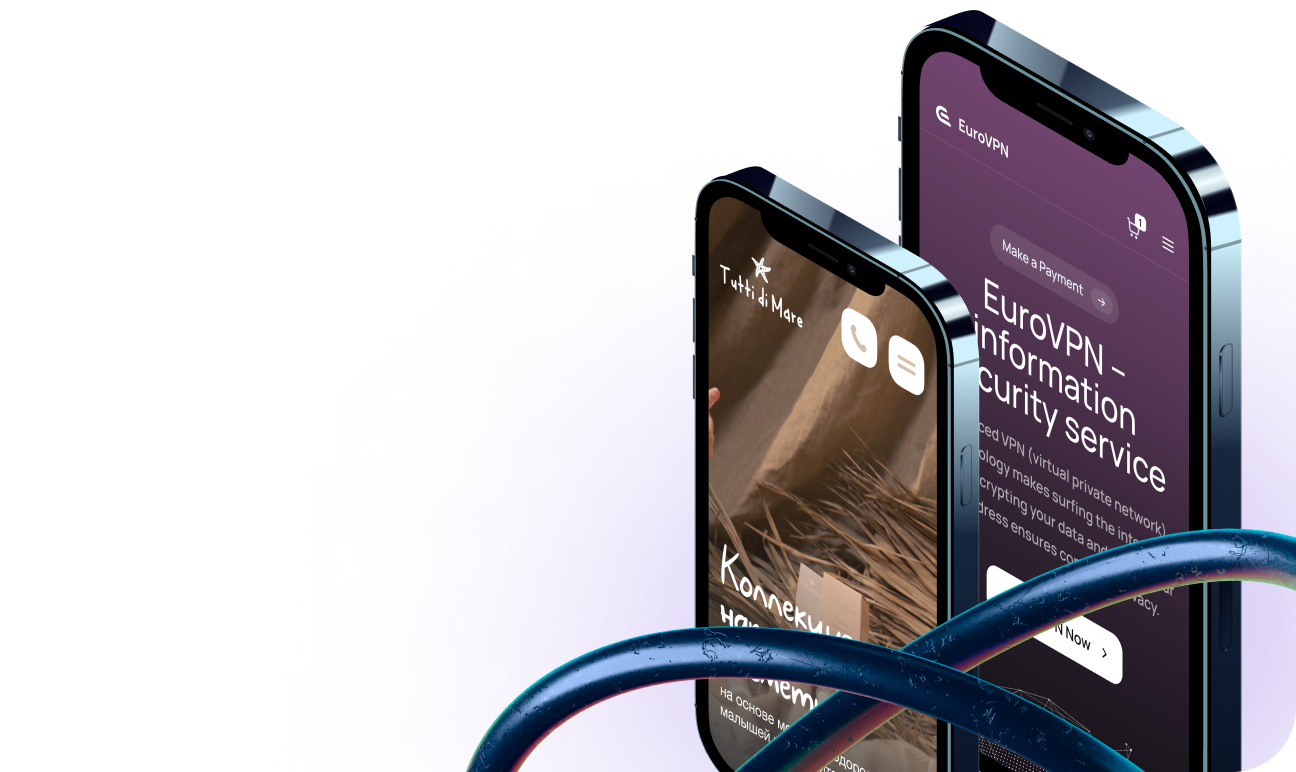
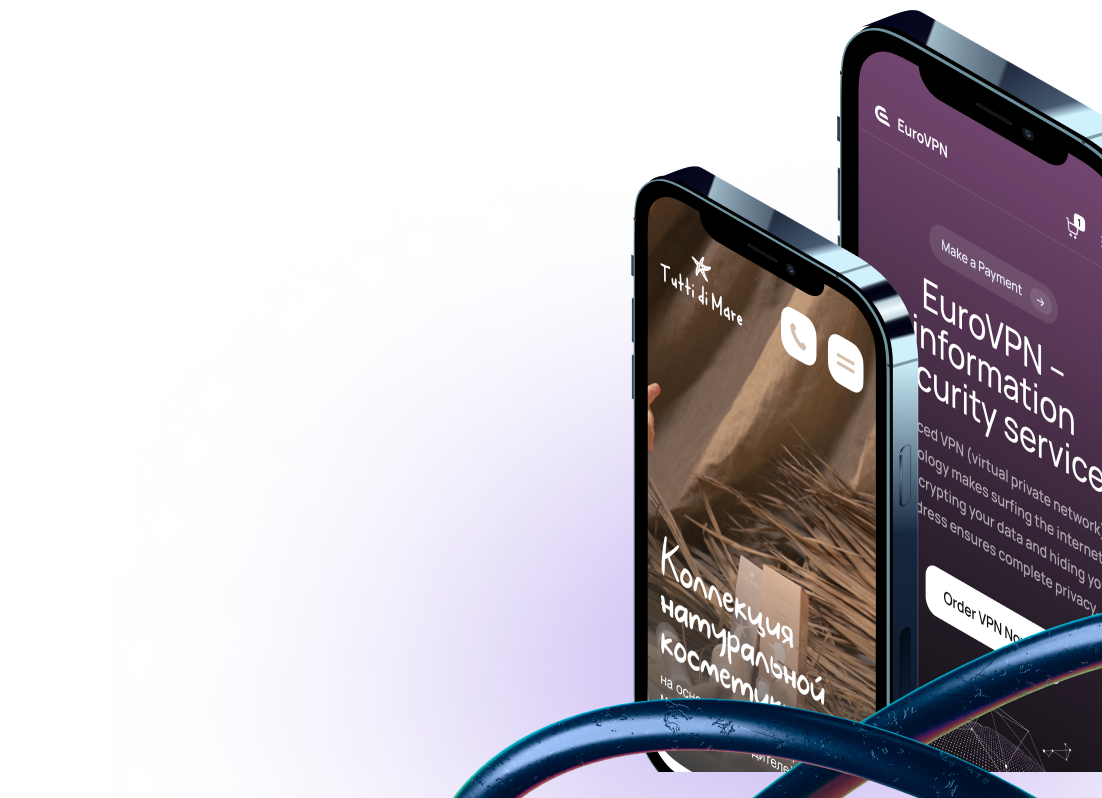
ofginb

diff --git a/index.html b/index.html
@@ -158,7 +158,7 @@
             </div>
           </div>
           <div class="right">
-            <img draggable="false" src="images/slider-banner.webp" alt="Phones" class="slider-banner-image" draggable="false">
+            <img draggable="false" src="images/slider-banner.png" alt="Phones" class="slider-banner-image" draggable="false">
           </div>
         </div>
       </section>
